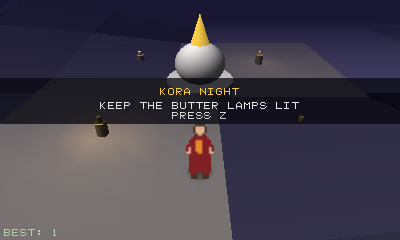
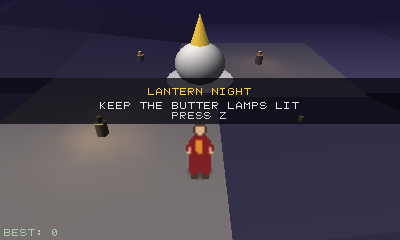
reserve the KORA name for the paid flagship: showcase → Lantern Night
The free, open-source showcase game was named 'Kora Night', which put
KORA-branded playable content in the public repo and on the site. KORA
is the flagship we intend to SELL, so its name shouldn't ride on the
free demo. Renamed the showcase (Lua + wick builds) to LANTERN NIGHT —
fitting, since it's the lantern engine's own demo and the mechanic is
keeping the butter lamps lit through the night. Covers in-game title
text, save keys, game.info (id com.aulenor.lantern-night), tooling and
test comments, README, ENGINE.md/PACKAGE.md, the site landing + docs
pages, the iOS host comment, and the regenerated title screenshot.

Flagship KORA marketing is deliberately kept ('KORA — will be sold
here', roadmap, porting notes) — that sells the game, it doesn't give
it away. The lowercase 'kora' in games/demo is the circumambulation
ritual the name derives from, not the brand.

Tests green (touch, wick self-play, package round trip) with the rename.

Changed region(s): [[0.36, 0.35, 0.63, 0.4083], [0.48, 0.0583, 0.54, 0.2042], [0.12, 0.9625, 0.15, 0.9917]]

diff --git a/site/docs/index.html b/site/docs/index.html
@@ -67,7 +67,7 @@ git clone https://github.com/alikatgh/lantern &amp;&amp; cd lantern
 brew install sdl2 lua cmake pkg-config
 cmake -B build &amp;&amp; cmake --build build -j8
 
-./build/lantern games/showcase   <span class="c"># KORA NIGHT — complete mini-game</span>
+./build/lantern games/showcase   <span class="c"># LANTERN NIGHT — complete mini-game</span>
 ./build/lantern games/demo       <span class="c"># every feature in one scene</span>
 ./build/lantern games/template   <span class="c"># the copy-me starter</span></code></pre>
 <p>Or grab the prebuilt bundle from the
@@ -162,7 +162,7 @@ designed out at the language level:</p>
 <p>The compiler and VM are ~2k dependency-free lines in
 <code>wick/</code>, same zlib license. Full language reference:
 <a href="https://github.com/alikatgh/lantern/blob/main/docs/WICK.md">docs/WICK.md</a>.
-Kora Night exists in <i>both</i> languages — <code>games/showcase</code>
+Lantern Night exists in <i>both</i> languages — <code>games/showcase</code>
 (Lua) and <code>games/showcase_wick</code> — deliberately kept as separate
 side-by-side projects so you can compare them line for line. The Lua API
 below maps 1:1 to wick (<code>lt.draw(...)</code> is the same call in
@@ -328,9 +328,9 @@ binary actually renders a frame.</p>
 <h2 id="samples">Sample games</h2>
 <table class="api">
   <tr><th>Folder</th><th>What it shows</th></tr>
-  <tr><td>games/showcase_wick</td><td>KORA NIGHT in <b>wick</b> — the same game as games/showcase, in lantern's own language; the pair evolves together for comparison.</td></tr>
+  <tr><td>games/showcase_wick</td><td>LANTERN NIGHT in <b>wick</b> — the same game as games/showcase, in lantern's own language; the pair evolves together for comparison.</td></tr>
   <tr><td>games/wicklab</td><td>The first wick program: typed lists, optionals, user functions, deterministic starfield.</td></tr>
-  <tr><td>games/showcase</td><td>KORA NIGHT — a complete arcade game (title → play → results) where the four point lights are the mechanic. Audio, rumble, saves, ~200 lines.</td></tr>
+  <tr><td>games/showcase</td><td>LANTERN NIGHT — a complete arcade game (title → play → results) where the four point lights are the mechanic. Audio, rumble, saves, ~200 lines.</td></tr>
   <tr><td>games/room</td><td>THE SHOP — the ALBW-style interior: textured floor/walls/carpet, keyframe-animated hero (<code>lt.draw_lerp</code>), blob shadows, warm point lights, hearts HUD.</td></tr>
   <tr><td>games/demo</td><td>Every feature in one monastery-at-dusk scene: fog, point lights, OBJ, billboards, textured custom meshes, HUD.</td></tr>
   <tr><td>games/template</td><td>The commented starter you copy to begin a game.</td></tr>

diff --git a/site/index.html b/site/index.html
@@ -46,8 +46,8 @@
 
     <figure class="hero-shot">
       <img class="shot" src="assets/v06-showcase-title.png" width="400" height="240"
-           alt="Kora Night title screen: a monk stands before a stupa at night, butter lamps glowing">
-      <figcaption>KORA NIGHT — the bundled showcase game. ~200 lines of Lua,
+           alt="Lantern Night title screen: a monk stands before a stupa at night, butter lamps glowing">
+      <figcaption>LANTERN NIGHT — the bundled showcase game. ~200 lines of Lua,
       title to results screen. Every pixel above is a real engine frame.</figcaption>
     </figure>
   </div>
@@ -156,8 +156,8 @@
     <div class="gallery">
       <figure>
         <img class="shot" src="assets/v06-showcase-play.png" width="400" height="240"
-             alt="Kora Night gameplay: monk near the stupa, one lamp blown out">
-        <figcaption>KORA NIGHT — keep the butter lamps lit through a
+             alt="Lantern Night gameplay: monk near the stupa, one lamp blown out">
+        <figcaption>LANTERN NIGHT — keep the butter lamps lit through a
         windy night. Audio, rumble, saved hi-scores.</figcaption>
       </figure>
       <figure>

diff --git a/tools/gen_showcase_assets.py b/tools/gen_showcase_assets.py
@@ -1,5 +1,5 @@
 #!/usr/bin/env python3
-"""Generate games/showcase (Kora Night) assets — reuses gen_demo_assets art.
+"""Generate games/showcase (Lantern Night) assets — reuses gen_demo_assets art.
 
 monk.bmp / mountains.obj / bell.wav — shared with the demo (same art).
 whoosh.wav — wind gust for a lamp blowing out (filtered noise burst).
@@ -14,7 +14,7 @@ import struct
 from gen_demo_assets import write_bmp, write_bell, write_mountains, monk_px
 
 HERE = os.path.dirname(os.path.abspath(__file__))
-# the Lua and wick builds of Kora Night are deliberately separate projects
+# the Lua and wick builds of Lantern Night are deliberately separate projects
 # (they evolve side by side for language comparison) but share these assets
 OUTS = [os.path.normpath(os.path.join(HERE, "..", "games", d))
         for d in ("showcase", "showcase_wick")]

diff --git a/ios/main.mm b/ios/main.mm
@@ -4,7 +4,7 @@
 // which is exactly what the manual-loop half of the ABI is for.
 //
 // Two kinds of game can ship in the bundle:
-//  - a wick game: a `game/` folder with main.wick (Kora Night by default —
+//  - a wick game: a `game/` folder with main.wick (Lantern Night by default —
 //    the wick VM has zero dependencies and no JIT, so it is iOS-legal)
 //  - a C game compiled in (games/touchdemo, the fallback when no game/
 //    folder is bundled)

diff --git a/README.md b/README.md
@@ -34,7 +34,7 @@ that combination is what lets the engine screenshot-test itself in CI.
 - **Runs on iPhone/iPad**: the platform layer has a native iOS backend —
   Metal-presented (the rasterizer stays ours), UITouch, AVAudio, and
   GCController gamepads. `tools/build_ios_sim.sh [game_dir]` builds a
-  simulator app with a **wick game bundled** (Kora Night by default —
+  simulator app with a **wick game bundled** (Lantern Night by default —
   wick has no JIT, so it's iOS-legal by construction); frames render
   byte-identical to macOS.
 - Headroom to spare: ~10k lit mesh draw calls fit the 60 fps budget
@@ -52,13 +52,13 @@ that combination is what lets the engine screenshot-test itself in CI.
 brew install sdl2 lua cmake pkg-config   # macOS; Linux: same packages
 cmake -B build && cmake --build build -j8
 ./build/lantern games/room               # THE SHOP — ALBW-style interior
-./build/lantern games/showcase           # KORA NIGHT — a complete mini-game
+./build/lantern games/showcase           # LANTERN NIGHT — a complete mini-game
 ./build/lantern games/demo               # monastery-at-dusk feature demo
 ./build/lantern games/template           # minimal starter
 ./build/lantern_hello_c                  # the same engine from pure C
 ```
 
-**Kora Night** (`games/showcase/`, ~200 lines of Lua) is the proof the API
+**Lantern Night** (`games/showcase/`, ~200 lines of Lua) is the proof the API
 holds together as a game: the four point lights are the mechanic (keep the
 butter lamps lit through a windy night), the player is a billboard, fog is
 the night, audio/rumble are feedback, and the hi-score persists. Title →
@@ -106,11 +106,11 @@ fn draw() {
 
 Full language reference: [docs/WICK.md](docs/WICK.md). Try it:
 `./build/lantern games/wicklab`, or play the real thing:
-`./build/lantern games/showcase_wick` — **Kora Night ported to wick**,
+`./build/lantern games/showcase_wick` — **Lantern Night ported to wick**,
 kept as a separate project beside the Lua build (`games/showcase`) on
 purpose: the two evolve together so the languages stay comparable on the
 same game. Test suite: `tests/wick_test.sh` (runs in CI — including eight
-programs that MUST fail to compile, plus the wick Kora Night self-play).
+programs that MUST fail to compile, plus the wick Lantern Night self-play).
 
 ## Make a game (Lua)
 

diff --git a/docs/PACKAGE.md b/docs/PACKAGE.md
@@ -31,8 +31,8 @@ safe to use, and it cannot be offered for Lua games (Lua ships `os` and
 The manifest, plain `key=value` lines, first entry in every package:
 
 ```
-id=com.aulenor.kora-night     # reverse-DNS, unique in the store
-title=Kora Night
+id=com.aulenor.lantern-night  # reverse-DNS, unique in the store
+title=Lantern Night
 version=1.0.0                 # semver
 author=the lantern engine authors
 entry=main.wick               # always main.wick for store packages

diff --git a/docs/ENGINE.md b/docs/ENGINE.md
@@ -151,7 +151,7 @@ rendered frames, never by "it compiled".**
   room-builder mirroring `kora/godot/world.gd`, dialogue, then the 3D
   diorama layer (ALBW framing: top-down camera, low-poly architecture,
   billboard characters — the engine already has every piece this needs).
-- **v0.5-pre ✅ (2026-07-14) — showcase game**: `games/showcase/` (KORA
+- **v0.5-pre ✅ (2026-07-14) — showcase game**: `games/showcase/` (LANTERN
   NIGHT) — a complete title→play→results mini-game in ~200 lines where the
   4 point lights are the core mechanic; verified by a deterministic
   self-playing round (`SHOWCASE_AUTO=1`) captured at all three states, with